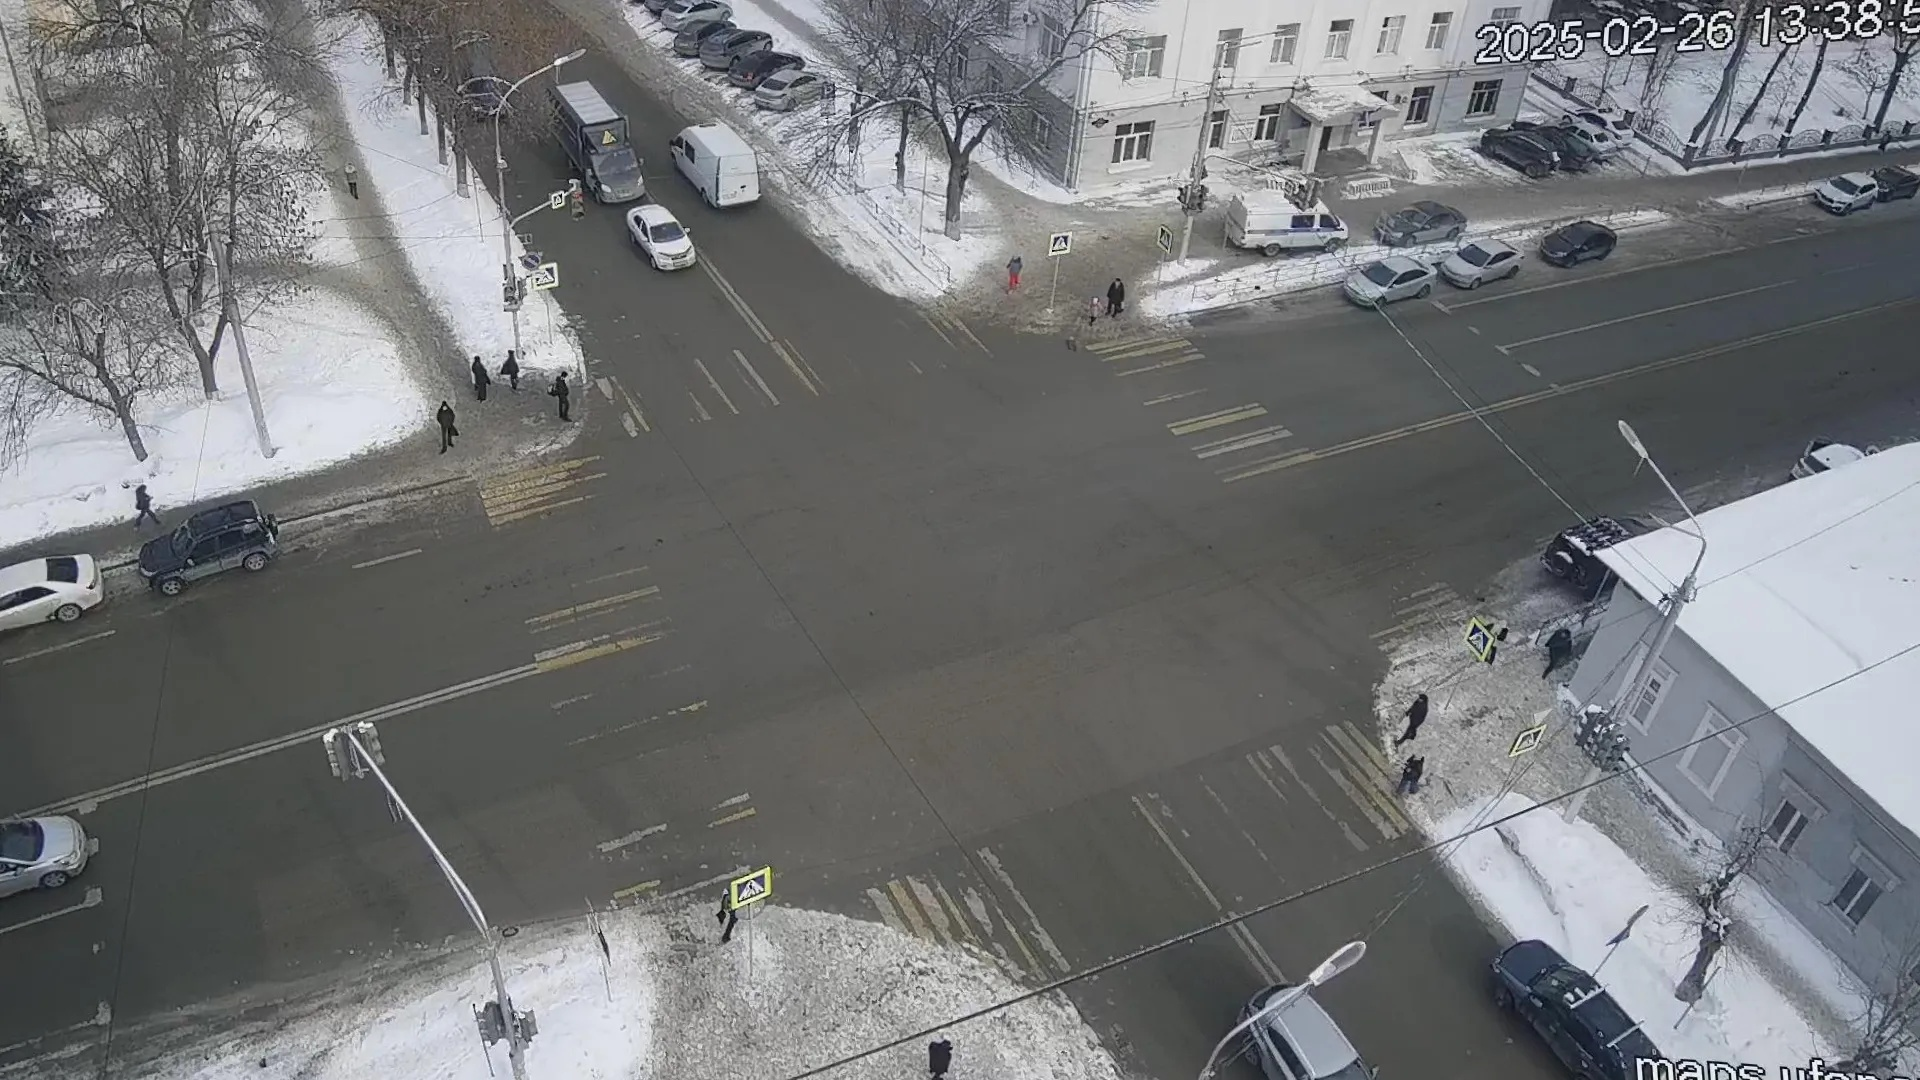
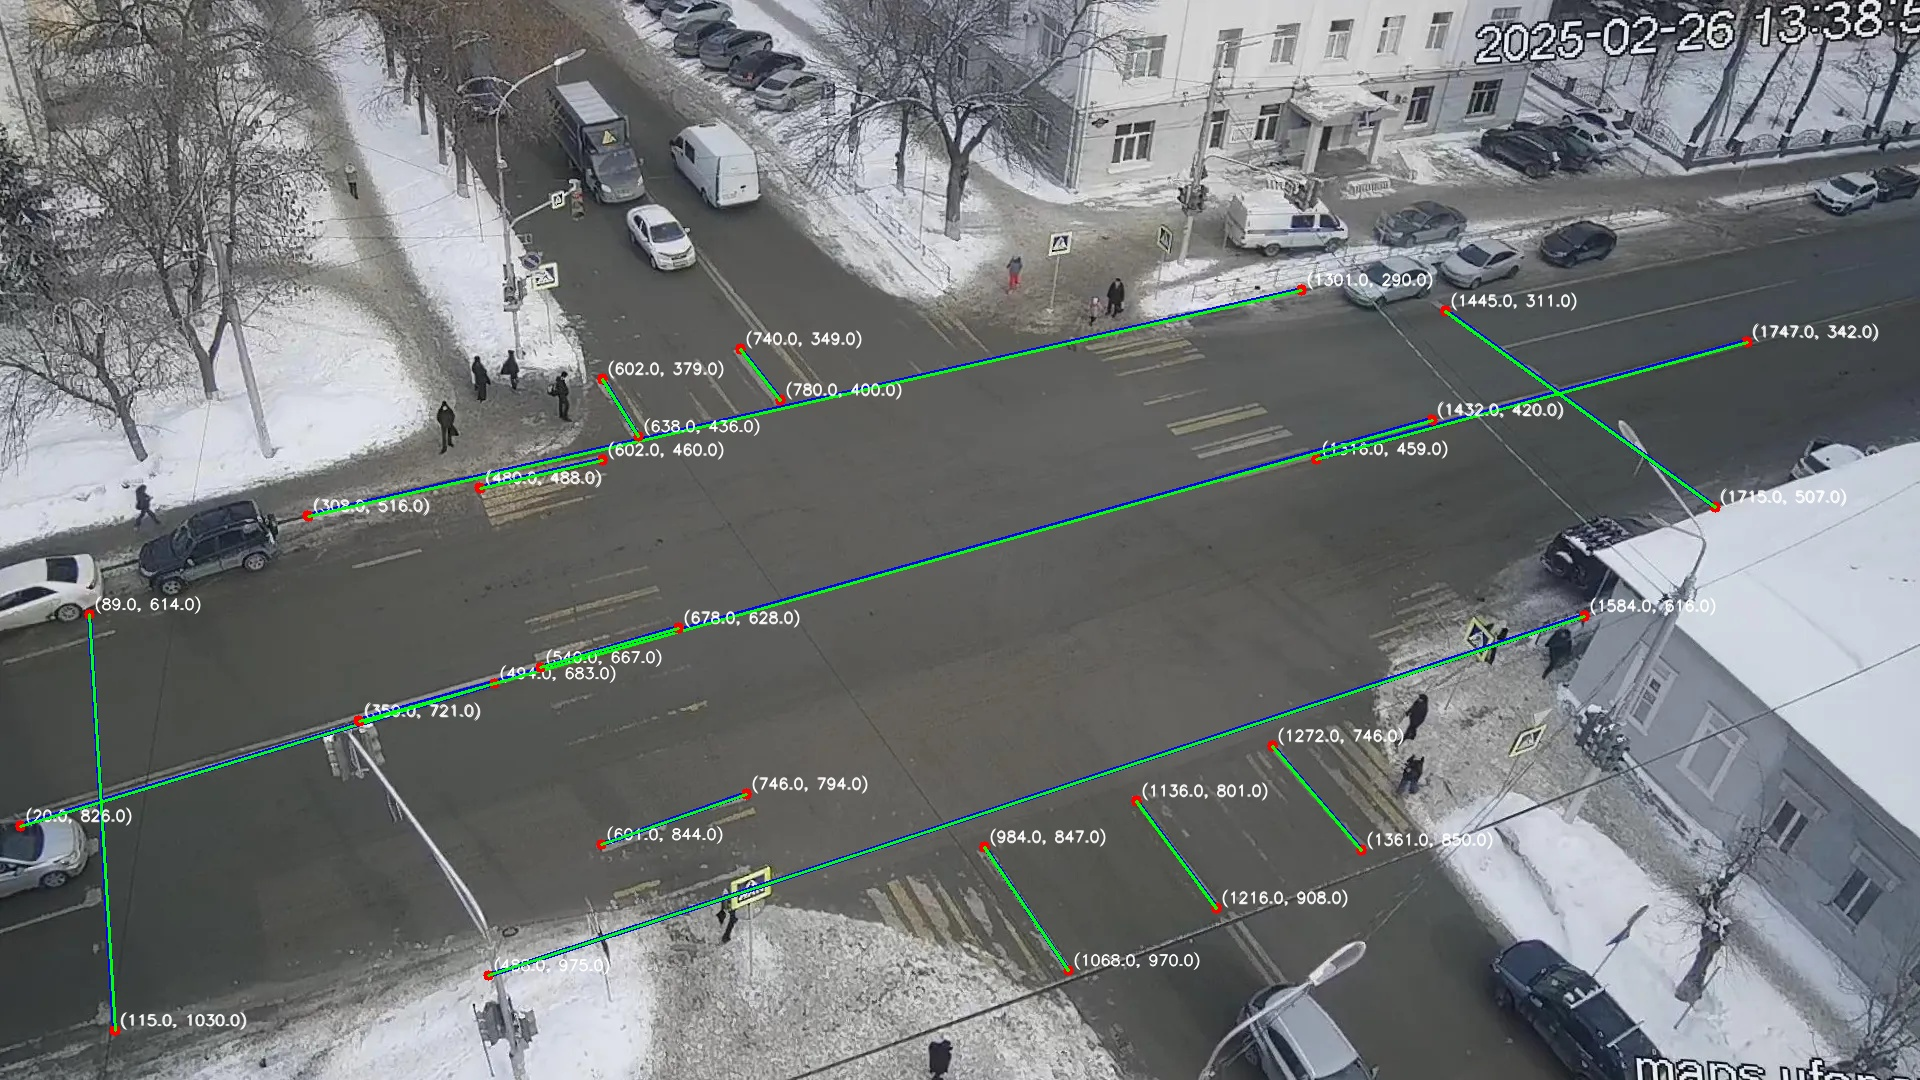
Алгоритм работает. Точность  2.0856e-01

diff --git a/example/pushkin_aksakov/example_back.py b/example/pushkin_aksakov/example_back.py
@@ -4,40 +4,42 @@ from src.initsolution import calc_init_camera
 from src.plot import Plot, DisplayMode, ProjectionMode
 from src.pointND import PointND
 from src.distance import gps_to_enu
-from src.data_preparation import load_data, prep_data_parallel, prep_data_angle
+from src.data_preparation import load_data, prep_data_parallel, prep_data_angle, load_params, prep_data_back_to_reverse
 
 import numpy as np
 import matplotlib.pyplot as plt
 
-data = {
-    'angle': prep_data_angle(load_data('angle_lines.txt')),
-    'parallel': prep_data_parallel(load_data('parallel_lines.txt')),
-    'point_to_point': np.array(load_data('point_to_point.txt'))
-}
-
 camera = Camera()
 camera.load_scene('crossroads_not_dist.jpg')
-plot = Plot(camera)
-plot.draw_line(load_data('angle_lines.txt'))
-plot.draw_line(load_data('parallel_lines.txt'))
-plot.draw_line(load_data('point_to_point.txt'))
 
-plot.visible()
-optimize = NewOptimization(camera)
-optimize.back_projection(data)
+# Отрисовка исходных линий
+# plot = Plot(camera)
+# plot.draw_line(load_data('angle_lines.txt'))
+# plot.draw_line(load_data('parallel_lines.txt'))
+# plot.draw_line(load_data('point_to_point.txt'))
+# plot.visible()
 
-HIST = [np.sum(values) for values in RESIDUALS]
+# Оптимизация
+# data = {
+#     'angle': prep_data_angle(load_data('angle_lines.txt')),
+#     'parallel': prep_data_parallel(load_data('parallel_lines.txt')),
+#     'point_to_point': np.array(load_data('point_to_point.txt'))
+# }
+# optimize = NewOptimization(camera)
+# optimize.back_projection(data)
 
-plt.figure(1)
-plt.subplot(1, 2, 1)
-plt.plot(np.arange(0, len(HIST)), HIST)
-
-plt.subplot(1, 2, 2)
-plt.plot(RESIDUALS[0], label='Начальные остатки')
-plt.plot(RESIDUALS[-1], label='Конечные остатки')
-plt.legend()
-plt.show()
-
+# Отрисовка результатов оптимизации
+# HIST = [np.sum(values) for values in RESIDUALS]
+#
+# plt.figure(1)
+# plt.subplot(1, 2, 1)
+# plt.plot(np.arange(0, len(HIST)), HIST)
+#
+# plt.subplot(1, 2, 2)
+# plt.plot(RESIDUALS[0], label='Начальные остатки')
+# plt.plot(RESIDUALS[-1], label='Конечные остатки')
+# plt.legend()
+# plt.show()
 # PARAMS = np.array(PARAMS)
 #
 # plt.plot(PARAMS[:, 0], label='Фокусное расстояние')
@@ -47,3 +49,16 @@ plt.show()
 # plt.plot(PARAMS[:, 4], label='Высота')
 # plt.legend()
 # plt.show()
+
+# Тесты
+camera.set_params(load_params('calib_data.txt'))
+data_calc = prep_data_back_to_reverse(camera,
+                                      load_data('angle_lines.txt') + load_data('parallel_lines.txt') + load_data(
+                                          'point_to_point.txt'))
+
+plot = Plot(camera)
+# plot.draw_line(data_calc,thickness = 4 )
+plot.draw_line(load_data('angle_lines.txt'), color=(0, 255, 0))
+plot.draw_line(load_data('parallel_lines.txt'), color=(0, 255, 0))
+plot.draw_line(load_data('point_to_point.txt'), color=(0, 255, 0))
+plot.visible(DisplayMode.SAVE)

diff --git a/src/camera_model.py b/src/camera_model.py
@@ -93,16 +93,12 @@ class Camera:
         return self.A
 
     # прямое преобразование
-    def direct_crop(self, point_real: PointND, params=[]) -> PointND:
+
+    def direct_full(self, point_real: PointND, params=[]) -> PointND:
         if len(params) == 5:
             self.calc_A(params[0])
             self.calc_R(params[1:4])
             self.calc_T(z=params[4])
-
-        elif len(params) == 6:
-            self.calc_A(params[0])
-            self.calc_R(params[1:4])
-            self.calc_T(x=params[4], z=params[4])
         elif len(params) == 7:
             self.calc_A(params[0])
             self.calc_R(params[1:4])
@@ -111,19 +107,14 @@ class Camera:
         _T1 = -self.R @ self.T
         _RT = np.hstack([self.R, _T1[:, np.newaxis]])
         _AT = self.A @ _RT
-        _new_point = PointND(_AT.dot(point_real.get(out_homogeneous=True)))
+        _new_point = PointND(_AT @ point_real.get(out_homogeneous=True), add_weight=False)
         return _new_point
 
-    def direct_full(self, point_real: PointND, params=[]) -> PointND:
+    def direct_crop(self, point_real: PointND, params=[]) -> PointND:
         if len(params) == 5:
             self.calc_A(params[0])
             self.calc_R(params[1:4])
             self.calc_T(z=params[4])
-
-        elif len(params) == 6:
-            self.calc_A(params[0])
-            self.calc_R(params[1:4])
-            self.calc_T(x=params[4], z=params[4])
         elif len(params) == 7:
             self.calc_A(params[0])
             self.calc_R(params[1:4])
@@ -133,7 +124,7 @@ class Camera:
         _RT = np.hstack([self.R, _T1[:, np.newaxis]])
         _RT = np.delete(_RT, 2, axis=1)
         _AT = self.A @ _RT
-        _new_point = PointND(_AT.dot(point_real.get(out_homogeneous=True)))
+        _new_point = PointND(_AT @ point_real.get(out_homogeneous=True), add_weight=False)
         return _new_point
 
     def back_crop(self, point_image: PointND, params=[]) -> PointND:

diff --git a/src/plot.py b/src/plot.py
@@ -6,8 +6,6 @@ from pathlib import Path
 import numpy as np
 
 from .camera_model import Camera
-from .point2D import Point2D
-from .point3D import Point3D
 from .pointND import PointND
 
 
@@ -67,7 +65,7 @@ class Plot:
         alpha = 0.8
         cv2.addWeighted(self.overlay, alpha, self.scene_plot, 1 - alpha, 0, self.scene_plot)
 
-    def draw_line(self, lines: np.ndarray, params=None, mode=ProjectionMode.DIRECT):
+    def draw_line(self, lines: np.ndarray, params=None, mode=ProjectionMode.DIRECT, color=(255, 0, 0), thickness=2):
         if self.mode == DisplayMode.JUPYTER:
             self.overlay = self.scene_plot.copy()
 
@@ -96,8 +94,8 @@ class Plot:
                 self.overlay,
                 start_plot,
                 end_plot,
-                (0, 255, 0),
-                2
+                color,
+                thickness
             )
 
         alpha = 0.8
@@ -109,7 +107,7 @@ class Plot:
         if mode == DisplayMode.SAVE:
             filename = Path(self.camera.path).name
             print('calib_' + filename)
-            cv2.imwrite('calib_' + filename, self.overlay)
+            cv2.imwrite('calibline_' + filename, self.overlay)
         elif mode == DisplayMode.JUPYTER:
             scene_rgb = cv2.cvtColor(self.overlay, cv2.COLOR_BGR2RGB)
             plt.figure(figsize=(10, 8))

diff --git a/src/data_preparation.py b/src/data_preparation.py
@@ -28,3 +28,18 @@ def prep_data_parallel(data):
     for i in range(0, len(data) - 1):
         _data.append(data[i] + data[i + 1])
     return np.array(_data)
+
+
+def load_params(path):
+    with open(path, 'r') as file:
+        return [float(value) for value in file.readline().split()]
+
+
+def prep_data_back_to_reverse(camera, data):
+    data = np.array(data)
+    data_calc = []
+    for start, end in data:
+        start_3d = camera.back_crop(start)
+        end_3d = camera.back_crop(end)
+        data_calc.append([camera.direct_crop(start_3d), camera.direct_crop(end_3d)])
+    return np.array(data_calc)

diff --git a/src/new_optimization.py b/src/new_optimization.py
@@ -97,4 +97,3 @@ class NewOptimization:
                                bounds=bounds
                                )
         print(*np.around(result.x, 2))
-        # print("Градиенты (Якобиан):", result.jac)

diff --git a/README.md b/README.md
@@ -24,9 +24,9 @@ Python 3.10
 ### Скорость
    1. [Вычисление скорости и калибровка по кривым линиям](materials/speed/Скорость.pdf)
 ## Входные данные
-1Калибровочные линии 
-   ![Калибровочные линии](example/pushkin_aksakov/calibration_line.png)
+__Перекресток Пушкина Аксакова__ 
+![Результат](example/pushkin_aksakov/calibline_crossroads_not_dist.jpg)
 ## Результаты
-1. Калибровка точка в точку с линейной функцией ошибки
-   ![Калибровка](example/pushkin_aksakov/evalution_scene.png)
-2. Калибровка c использованием оптимизации модели с линейной функцией ошибки
+__Перекресток Пушкина Аксакова(погрешность: 2.0856e-01)__: 
+   ![Результат](example/pushkin_aksakov/calib_crossroads_not_dist.jpg)
+   
